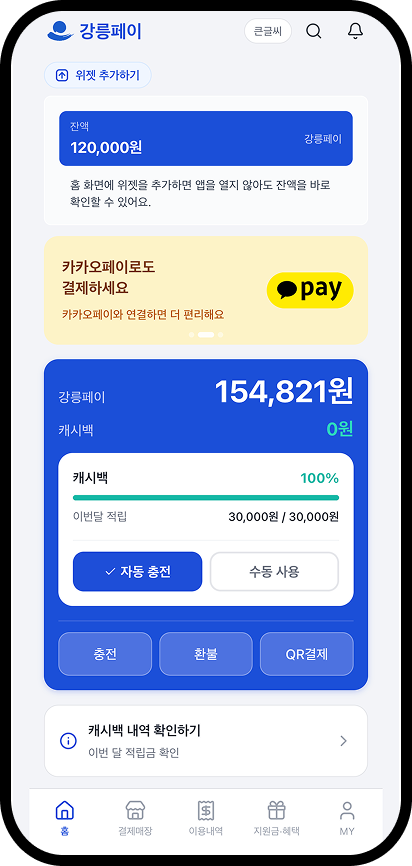
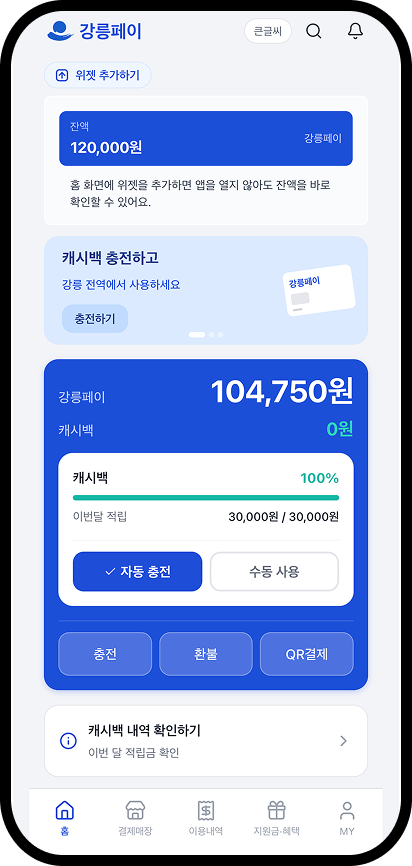
라2안

Changed region(s): [[0.0874, 0.2494, 0.9029, 0.4053], [0.5243, 0.4365, 0.8155, 0.4677], [0.7282, 0.1559, 0.8155, 0.1871]]

diff --git a/website/src/sections/AiHarness.jsx b/website/src/sections/AiHarness.jsx
@@ -416,7 +416,7 @@ export default function AiHarness() {
             <div style={{ display: 'grid', gridTemplateColumns: isMobile ? '1fr' : '1fr 1fr', gap: 10, marginBottom: 16 }}>
               {[
                 { dir: 'Claude Code → Figma', desc: 'Claude Code로 빠른 프로토타입 완성 후 피그마로 변환' },
-                { dir: 'Figma → 코드', desc: '디자인 수정 후 코드로 변환' },
+                { dir: 'Figma → Claude Code', desc: '디자인 수정 후 코드로 변환' },
               ].map((item) => (
                 <div
                   key={item.dir}

diff --git a/website/src/sections/UserResearch.jsx b/website/src/sections/UserResearch.jsx
@@ -84,7 +84,7 @@ export default function UserResearch() {
   const [cRef9,  c9]  = useCountUp(9,  1200);
   const [cRef0,  c0]  = useCountUp(0,   800);
 
-  const [mRef70, m70] = useCountUp(70, 1500);
+  const [mRef70, m70] = useCountUp(68, 1500);
   const [mRef2a, m2a] = useCountUp(6,  1000);
   const [mRef4,  m4]  = useCountUp(4,  1000);
   const [mRef2b, m2b] = useCountUp(2,  1000);